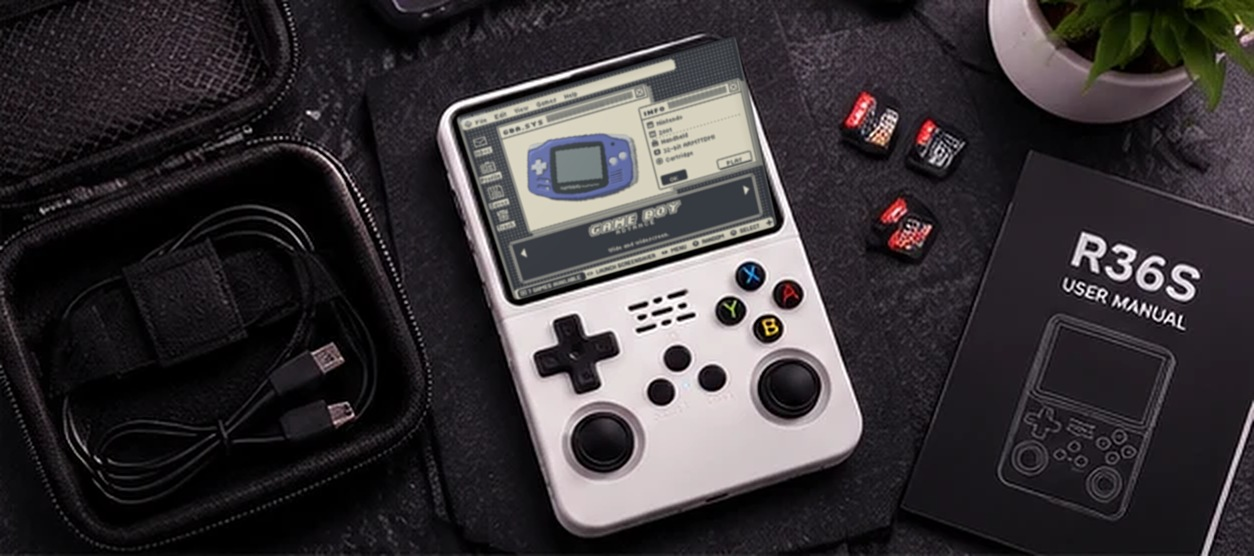
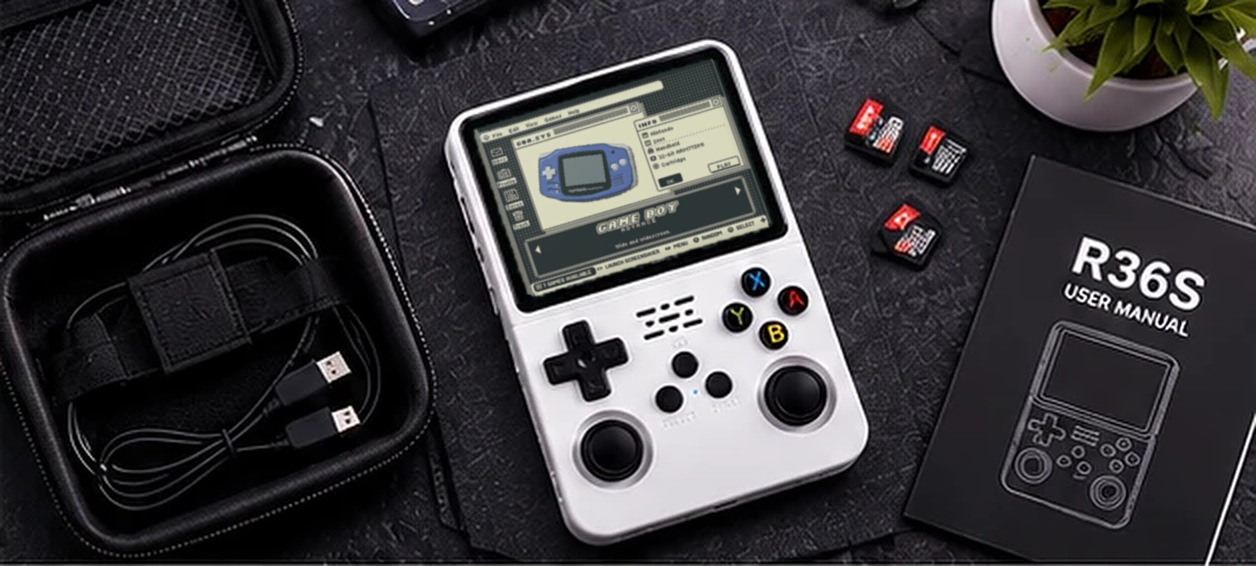
Showcase: key theme screenshots into the green-screen R36S photos
composite_photos.py keys the green displays, fits each side with a line,
warps the screenshot onto the quad and cuts it with the green matte, then
despills the bezel. Bottom-row photos dropped; NeonGlow uses the angled
keyboard shot and the collection uses the box shot.

Claude-Session: https://claude.ai/code/session_012YBeFWiQAfsThBpmGfRTHW

diff --git a/hqbit-brand/website/hqbit.html b/hqbit-brand/website/hqbit.html
@@ -181,7 +181,7 @@ dialog button { font: 700 13px/1 var(--display); background: var(--text); color:
           <a class="btn btn-line" href="https://drive.google.com/drive/folders/100a83ie8fWxjgm-VBcgk6h-fA1CaF0Ve" target="_blank" rel="noopener">All downloads on Google Drive</a>
         </div>
       </div>
-      <figure><img src="img/showcase-collection.jpg" width="1600" height="900" alt="R36S handhelds showing the Volta, NeonGlow and VCR OSD themes, with the HQbit logo"></figure>
+      <figure><img src="img/showcase-collection.jpg" width="1600" height="900" alt="A white and a clear R36S next to their box, showing the Volta and VCR OSD themes, with the HQbit logo"></figure>
     </div>
   </div>
 

diff --git a/hqbit-brand/tools/composite_photos.py b/hqbit-brand/tools/composite_photos.py
@@ -1,17 +1,15 @@
 #!/usr/bin/env python3
-"""Place theme screenshots onto the R36S screens in product photos.
+"""Place theme screenshots onto the R36S screens in a green-screen product photo collage.
 
-usage: composite_photos.py <collage.png> <out dir>
+usage: composite_photos.py <green-screen collage> <out dir>
 
-For each screen:
-1. Find the glass panel: the non-white region inside the device's white frame, grown from a seed quad
-   (for clear/purple shells, the lit display itself). Fit a straight line to each side of its outline and
-   intersect them, which gives the panel's corners without the rounding.
-2. The active display sits inside the glass with a thin black border; its corners are found through the
-   panel's homography, so the inset follows the perspective.
-3. Warp the screenshot (with rounded corners) into the active area at 4x, tone it to the photo (lifted
-   blacks, softer contrast, a tint from the scene), darken its edges slightly, and add a faint glass sheen.
-   The photo's own bezel and rim reflections stay untouched.
+Each display in the collage is solid green. For each one:
+1. Key out the green: a soft matte from how much green exceeds red/blue, so the screen's own edge and
+   rounded corners stay exactly as photographed.
+2. Fit a straight line to each side of the green area and intersect them for the four corners; the
+   screenshot is perspective-warped (at 4x) onto that quad and cut by the matte.
+3. Remove green spill from the bezel next to the screen, tone the screenshot to the photo (lifted
+   blacks, a hint of the room colour, slight edge falloff), add a faint glass sheen.
 """
 import os
 import sys
@@ -23,133 +21,105 @@ ROOT = os.path.dirname(os.path.dirname(os.path.abspath(__file__)))
 SCR = os.path.join(ROOT, "showcase", "screens")
 UP = 4
 
-# seed quads (TL, TR, BR, BL) measured on the collage; mode "glass" = white frame, "lit" = transparent shell
+# name: (panel box in the collage, [(point inside the green screen, screenshot[, quarter turns])])
 PANELS = {
-    "volta": ((0, 0, 752, 574), [("glass", [(336, 69), (577, 71), (581, 257), (338, 258)], "volta/system-horizontal-dark.png")]),
-    "vcr": ((767, 310, 1254, 623), [("glass", [(916, 342), (1075, 330), (1079, 463), (913, 467)], "vcr/system-snes.png")]),
-    "neonglow": ((817, 922, 1254, 1254), [("glass", [(969, 967), (1128, 966), (1129, 1077), (969, 1079)], "neonglow/system-vertical.png")]),
-    "deskos": ((627, 632, 1254, 910), [("glass", [(859, 689), (991, 657), (1012, 747), (881, 778)], "deskos/system-classic.png")]),
-    "collection": ((0, 922, 515, 1254), [
-        ("glass", [(77, 946), (208, 947), (217, 1030), (88, 1034)], "volta/system-wheel-citrine.png"),
-        ("lit", [(245, 963), (344, 962), (351, 1033), (248, 1036)], "neonglow/system-wheel.png"),
-        ("lit", [(384, 971), (458, 970), (468, 1037), (390, 1039)], "vcr/system-gba-navy.png"),
-    ]),
+    "volta": ((0, 0, 757, 578), [((460, 150), "volta/system-horizontal-dark.png")]),
+    "neonglow": ((767, 0, 1254, 300), [((1080, 90), "neonglow/system-vertical.png", 1)]),
+    "vcr": ((767, 306, 1254, 620), [((1000, 395), "vcr/system-snes.png")]),
+    "deskos": ((626, 629, 1254, 912), [((935, 715), "deskos/system-classic.png")]),
+    "collection": ((0, 586, 616, 912), [((390, 695), "volta/system-wheel-citrine.png"),
+                                        ((492, 700), "vcr/system-gba-navy.png")]),
 }
-INSET = (0.027, 0.034)        # active display inside the glass panel (fraction of width, height)
 
 
-def region_hull(img, seed, mode):
-    q = np.array(seed, np.float32)
-    x0, y0 = (q.min(0) - 30).astype(int)
-    x1, y1 = (q.max(0) + 30).astype(int)
-    x0, y0 = max(x0, 0), max(y0, 0)
-    roi = img[y0:y1, x0:x1]
-    hsv = cv2.cvtColor(roi, cv2.COLOR_BGR2HSV).astype(int)
-    seedm = np.zeros(roi.shape[:2], np.uint8)
-    cv2.fillPoly(seedm, [(q - [x0, y0]).astype(np.int32)], 1)
-    if mode == "glass":
-        cand = ~((hsv[..., 2] > 150) & (hsv[..., 1] < 90))
-        grow = cv2.dilate(seedm, np.ones((15, 15), np.uint8))
-    else:  # lit display on a transparent shell: brighter than the dark bezel around it
-        cand = hsv[..., 2] > 55
-        grow = cv2.dilate(seedm, np.ones((7, 7), np.uint8))
-    cand = (cand & (grow > 0)).astype(np.uint8)
-    n, lab = cv2.connectedComponents(cand)
-    best = max(range(1, n), key=lambda i: ((lab == i) & (seedm == 1)).sum())
-    m = (lab == best).astype(np.uint8) * 255
-    m = cv2.morphologyEx(m, cv2.MORPH_CLOSE, np.ones((9, 9), np.uint8))
-    cs, _ = cv2.findContours(m, cv2.RETR_EXTERNAL, cv2.CHAIN_APPROX_NONE)
-    hull = cv2.convexHull(max(cs, key=cv2.contourArea)).reshape(-1, 2).astype(np.float32) + [x0, y0]
-    dense = []                                   # resample the hull every 0.5 px so straight sides have points
-    for p0, p1 in zip(hull, np.roll(hull, -1, 0)):
-        n = max(2, int(np.linalg.norm(p1 - p0) * 2))
-        dense.append(p0 + (p1 - p0) * np.linspace(0, 1, n, endpoint=False)[:, None])
-    return np.concatenate(dense).astype(np.float32)
+def greenness(img):
+    b, g, r = [img[..., i].astype(np.float32) for i in range(3)]
+    return g - np.maximum(r, b)
 
 
-def fit_quad(hull, seed):
-    """Fit a line to each side of the outline (ignoring the rounded corners) and intersect them."""
-    s = np.array(seed, np.float32)
+def screen_mask(img, inside):
+    m = (greenness(img) > 40).astype(np.uint8)
+    n, lab = cv2.connectedComponents(m)
+    return (lab == lab[inside[1], inside[0]]).astype(np.uint8)
+
+
+def fit_quad(mask):
+    cs, _ = cv2.findContours(mask * 255, cv2.RETR_EXTERNAL, cv2.CHAIN_APPROX_NONE)
+    cnt = max(cs, key=cv2.contourArea)
+    pts = cnt.reshape(-1, 2).astype(np.float32)
+    hull = cv2.convexHull(cnt)
+    peri = cv2.arcLength(hull, True)
+    eps = 0.02
+    while True:
+        ap = cv2.approxPolyDP(hull, eps * peri, True).reshape(-1, 2).astype(np.float32)
+        if len(ap) <= 4:
+            break
+        eps += 0.005
+    c = ap.mean(0)
+    ap = ap[np.argsort(np.arctan2(ap[:, 1] - c[1], ap[:, 0] - c[0]))]
+    ap = np.roll(ap, -int(np.argmin(ap.sum(1))), 0)          # TL, TR, BR, BL
     lines = []
     for i in range(4):
-        a, b = s[i], s[(i + 1) % 4]
+        a, b = ap[i], ap[(i + 1) % 4]
         d = b - a
         L = np.linalg.norm(d)
-        t = ((hull - a) @ d) / (L * L)
+        t = ((pts - a) @ d) / (L * L)
         nrm = np.array([-d[1], d[0]]) / L
-        dist = np.abs((hull - a) @ nrm)
-        sel = hull[(t > 0.18) & (t < 0.82) & (dist < 0.12 * L)]
+        sel = pts[(t > 0.15) & (t < 0.85) & (np.abs((pts - a) @ nrm) < 0.08 * L)]
         vx, vy, x, y = cv2.fitLine(sel, cv2.DIST_HUBER, 0, 0.01, 0.01).ravel()
         lines.append((np.array([x, y]), np.array([vx, vy])))
-    pts = []
-    for i in range(4):                       # corner i lies between side i-1 and side i
+    out = []
+    for i in range(4):                                       # corner i between side i-1 and side i
         (p1, d1), (p2, d2) = lines[i - 1], lines[i]
         t = np.linalg.solve(np.array([d1, -d2]).T, p2 - p1)
-        pts.append(p1 + t[0] * d1)
-    return np.array(pts, np.float32)
-
-
-def inset_quad(quad, fx, fy):
-    H = cv2.getPerspectiveTransform(np.float32([[0, 0], [1, 0], [1, 1], [0, 1]]), quad)
-    unit = np.float32([[fx, fy], [1 - fx, fy], [1 - fx, 1 - fy], [fx, 1 - fy]]).reshape(-1, 1, 2)
-    return cv2.perspectiveTransform(unit, H).reshape(-1, 2)
-
-
-def tone(shot, tint):
-    s = shot.astype(np.float32) / 255
-    s = 0.035 + s * 0.93                                   # lifted blacks, softer whites, like a lit LCD in a photo
-    s = np.clip((s - 0.5) * 0.96 + 0.5, 0, 1)
-    return s * 0.94 + tint * 0.06                          # a hint of the room's colour
-
-
-def rounded_mask(w, h, r):
-    m = np.zeros((h, w), np.uint8)
-    cv2.rectangle(m, (r, 0), (w - r, h), 255, -1)
-    cv2.rectangle(m, (0, r), (w, h - r), 255, -1)
-    for cx, cy in ((r, r), (w - r, r), (w - r, h - r), (r, h - r)):
-        cv2.circle(m, (cx, cy), r, 255, -1, lineType=cv2.LINE_AA)
-    return m
+        out.append(p1 + t[0] * d1)
+    return np.array(out, np.float32)
 
 
 def composite(src, out_dir, name):
     box, screens = PANELS[name]
     col = cv2.imread(src)
-    panel = col[box[1]:box[3], box[0]:box[2]]
+    x0, y0, x1, y1 = box
+    panel = col[y0:y1, x0:x1]
     big = cv2.resize(panel, None, fx=UP, fy=UP, interpolation=cv2.INTER_LANCZOS4).astype(np.float32) / 255
-    out = big.copy()
     size = (big.shape[1], big.shape[0])
+    gr = cv2.resize(greenness(panel), size, interpolation=cv2.INTER_CUBIC)
+    out = big.copy()
     quads = []
-    for mode, seed, shot_path in screens:
-        if mode == "glass":
-            active = inset_quad(fit_quad(region_hull(col, seed, mode), seed), *INSET)
-        else:                                    # transparent shells: edges too faint to detect, use the measured quad
-            active = np.array(seed, np.float32)
-        quads.append(active)
-        act = ((active - [box[0], box[1]]) * UP + (UP - 1) / 2).astype(np.float32)
+    for inside, shot_path, *rot in screens:
+        m = screen_mask(col, inside)[y0:y1, x0:x1]
+        quad = np.roll(fit_quad(m), -(rot[0] if rot else 0), 0)   # rot: device lying on its side
+        quads.append((quad + [x0, y0]).tolist())
+        q = (quad * UP + (UP - 1) / 2).astype(np.float32)
+        region = cv2.dilate(cv2.resize(m, size, interpolation=cv2.INTER_NEAREST), np.ones((13, 13), np.uint8)).astype(np.float32)
+        matte = np.clip((gr - 8) / 50, 0, 1) * region
+        matte = cv2.dilate(matte, np.ones((5, 5), np.uint8))                 # cover the anti-aliased rim
+        matte = cv2.GaussianBlur(matte, (0, 0), UP * 0.45)[..., None]
         shot = cv2.imread(os.path.join(SCR, shot_path))
+        shot = cv2.resize(shot, None, fx=3, fy=3, interpolation=cv2.INTER_CUBIC).astype(np.float32) / 255
         sh, sw = shot.shape[:2]
-        shot = cv2.resize(shot, (sw * 3, sh * 3), interpolation=cv2.INTER_CUBIC)
-        sh, sw = shot.shape[:2]
-        tint = cv2.GaussianBlur(big, (0, 0), 40)[int(act[:, 1].mean()), int(act[:, 0].mean())]
-        s = tone(shot, tint)
+        tint = cv2.GaussianBlur(big, (0, 0), 60)[int(q[:, 1].mean()), int(q[:, 0].mean())]
+        s = (0.03 + shot * 0.94) * 0.95 + tint * 0.05
         yy, xx = np.mgrid[0:sh, 0:sw].astype(np.float32)
         edge = np.minimum(np.minimum(xx, sw - 1 - xx) / sw, np.minimum(yy, sh - 1 - yy) / sh)
-        s *= (0.9 + 0.1 * np.clip(edge / 0.06, 0, 1))[..., None]           # slight falloff at the edges
-        rm = rounded_mask(sw, sh, int(0.025 * sw)).astype(np.float32) / 255
-        H = cv2.getPerspectiveTransform(np.float32([[0, 0], [sw, 0], [sw, sh], [0, sh]]), act)
-        ws = cv2.warpPerspective(s, H, size, flags=cv2.INTER_AREA)
-        wm = cv2.warpPerspective(rm, H, size, flags=cv2.INTER_LINEAR)
-        ws = cv2.GaussianBlur(ws, (0, 0), UP * 0.45)                         # match the photo's softness
-        wm = cv2.GaussianBlur(wm, (0, 0), UP * 0.5)[..., None]
-        tl, tr, br, bl = act
-        band = np.float32([tl, tl + (tr - tl) * 0.62, tl + (tr - tl) * 0.18 + (bl - tl) * 0.55, tl + (bl - tl) * 0.75])
+        s *= (0.92 + 0.08 * np.clip(edge / 0.05, 0, 1))[..., None]
+        H = cv2.getPerspectiveTransform(np.float32([[0, 0], [sw, 0], [sw, sh], [0, sh]]), q)
+        ws = cv2.warpPerspective(s, H, size, flags=cv2.INTER_AREA, borderMode=cv2.BORDER_REPLICATE)
+        ws = cv2.GaussianBlur(ws, (0, 0), UP * 0.4)
+        tl, tr, br, bl = q
+        band = np.float32([tl, tl + (tr - tl) * 0.6, tl + (tr - tl) * 0.15 + (bl - tl) * 0.55, tl + (bl - tl) * 0.72])
         g = np.zeros(size[::-1], np.float32)
-        cv2.fillPoly(g, [band.astype(np.int32)], 0.07)
-        g = cv2.GaussianBlur(g, (0, 0), UP * 14)[..., None] * wm             # soft diagonal glass sheen
-        layer = ws * wm + out * (1 - wm)
+        cv2.fillPoly(g, [band.astype(np.int32)], 0.06)
+        g = cv2.GaussianBlur(g, (0, 0), UP * 14)[..., None] * matte
+        layer = ws * matte + out * (1 - matte)
         out = layer + g * (1 - layer)
+    # despill: around the screens, pull green down towards max(red, blue)
+    ring = cv2.dilate((gr > 10).astype(np.uint8), np.ones((5 * UP, 5 * UP), np.uint8)).astype(bool)
+    bch, gch, rch = out[..., 0], out[..., 1], out[..., 2]
+    lim = np.maximum(bch, rch)
+    out[..., 1] = np.where(ring & (gch > lim), lim + (gch - lim) * 0.15, gch)
     res = cv2.resize(np.clip(out * 255, 0, 255).astype(np.uint8), (panel.shape[1] * 2, panel.shape[0] * 2), interpolation=cv2.INTER_AREA)
-    res = cv2.addWeighted(res, 1.35, cv2.GaussianBlur(res, (0, 0), 1.2), -0.35, 0)
+    res = cv2.addWeighted(res, 1.3, cv2.GaussianBlur(res, (0, 0), 1.2), -0.3, 0)
     cv2.imwrite(os.path.join(out_dir, f"hqbit-photo-{name}.jpg"), res, [cv2.IMWRITE_JPEG_QUALITY, 93])
     return quads
 

diff --git a/hqbit-brand/tools/build_showcase.py b/hqbit-brand/tools/build_showcase.py
@@ -136,12 +136,12 @@ def collection_photo_card(photo, W=1600, H=900):
  <div style="font-family:JB;font-size:15px;margin-top:26px;color:{C['lime']}">{names}</div></div>
 <div style="position:absolute;left:64px;bottom:58px;width:440px;font-family:JB;font-size:13px;line-height:1.6;letter-spacing:.08em;color:#ffffffbb">R36S &amp; CLONES · EMUELEC · ARKOS · dARKOS</div>
 <div style="position:absolute;right:56px;top:56px;bottom:56px;width:{W-600}px;border-radius:22px;overflow:hidden;box-shadow:0 30px 70px #0008;border:1px solid #ffffff2a">
- <img src="file://{photo}" style="width:100%;height:100%;object-fit:cover"></div>"""
+ <img src="file://{photo}" style="width:100%;height:100%;object-fit:cover;object-position:82% 50%"></div>"""
 
 
 def build_photo_cards():
     P = os.path.join(ROOT, "photos", "real")
-    focus = {"volta": "62% 50%", "vcr": "45% 50%", "neonglow": "50% 50%", "deskos": "50% 50%"}
+    focus = {"volta": "62% 50%", "vcr": "50% 50%", "neonglow": "55% 50%", "deskos": "48% 50%"}
     for t in THEMES:
         t = dict(t, focus=focus.get(t["key"], "50% 50%"))
         if t["key"] == "vcr":
